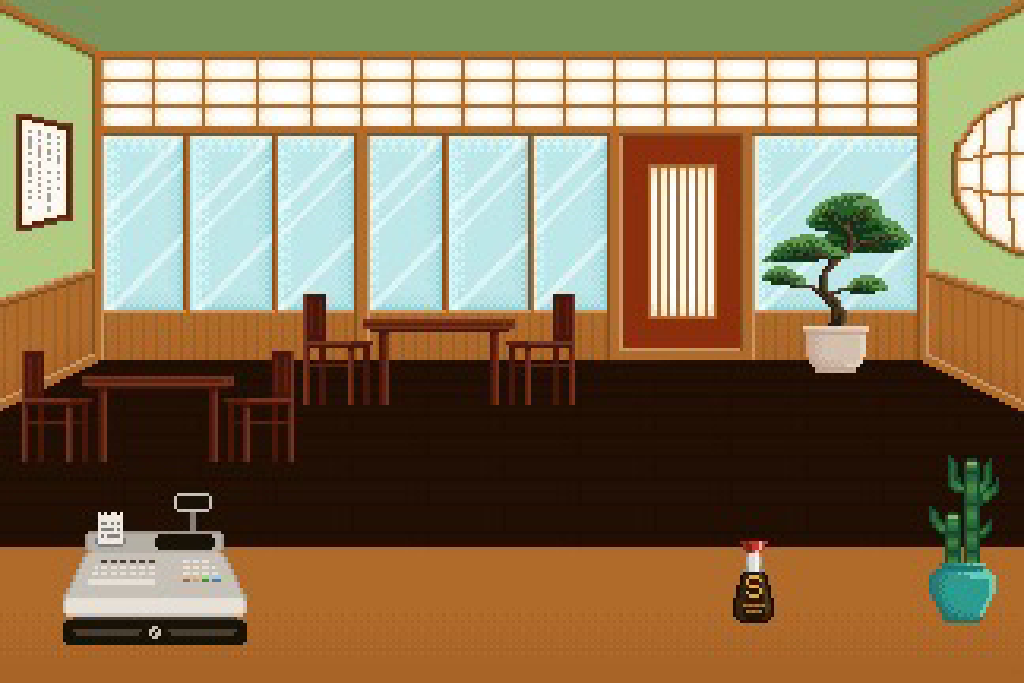
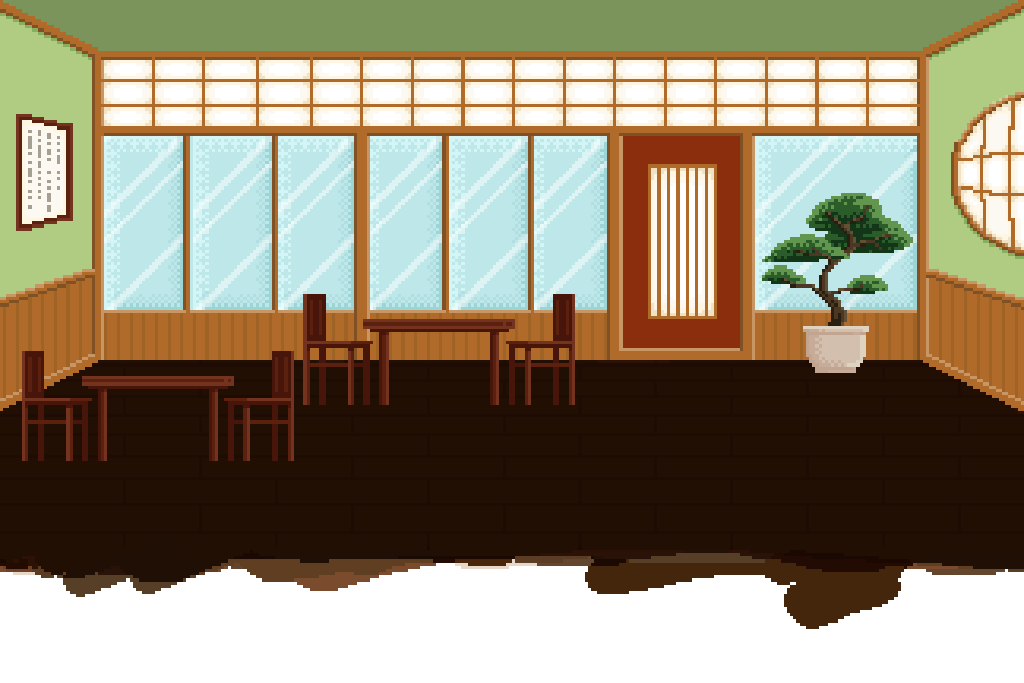
sliding customer working

diff --git a/scenes/counter/customer.js b/scenes/counter/customer.js
@@ -6,12 +6,12 @@ export default class Customer extends GameObject {
     constructor(game, x, y) {
         super(game);
         this.spritesheet = ASSET_MANAGER.getAsset("./assets/characters/dummy.png");
-        this.width = 200;
-        this.height = 200;
+        this.width = 400;
+        this.height = 600;
         this.order = null;
         this.showOrder = false;
         Object.assign(this, { game, x, y });
-        this.walkTo(200, 280, this.displayOrder.bind(this));
+        this.walkTo(200, 100, this.displayOrder.bind(this));
     };
 
     update() {
@@ -21,16 +21,16 @@ export default class Customer extends GameObject {
     draw(ctx) {
         ctx.drawImage(this.spritesheet, this.x, this.y, this.width, this.height);
         if(this.showOrder) {
-            //console.log(this.order);
+            console.log(this.order);
             ctx.fillStyle = "white";
-            ctx.fillRect(this.x, this.y - 200, 200, 200);
+            ctx.fillRect(300, 100, 200, this.order.ingredients.length * 100);
             ctx.fillStyle = "black";
-            ctx.strokeRect(this.x, this.y - 200, 200, 200);
+            ctx.strokeRect(300, 100, 200, 100);
             ctx.font = "20px Arial";
             ctx.fillText("Order", this.x, this.y - 200);
             ctx.font = "16px Arial";
-            for(let i = 0; i < this.order.ingredients.length; i++) {
-                ctx.fillText(this.order.ingredients[i].type, this.x, this.y - 180 + i * 20);
+            for(let i = this.order.ingredients.length - 1; i > -1; i--) {
+                ctx.fillText(this.order.ingredients[i].type, this.x, this.y + i * 20);
             }
             ctx.font = "20px Arial";
             ctx.fillText("Sides", this.x, this.y - 100);
@@ -43,21 +43,15 @@ export default class Customer extends GameObject {
 
     async walkTo(x, y, onComplete=() => {}) {
         let intervalID = setInterval(() => {
-            if(this.x === x && this.y === y) {
+            if(this.y === y) {
                 clearInterval(intervalID);
                 onComplete();
             }
-            if (this.x < x) {
-                this.x += 2;
-            }
             if (this.y < y) {
-                this.y += 2;
-            }
-            if (this.x > x) {
-                this.x -= 2;
+                this.y += 5;
             }
             if (this.y > y) {
-                this.y -= 2;
+                this.y -= 5;
             }
         }, 1000 / 60);
     }

diff --git a/main.js b/main.js
@@ -4,6 +4,7 @@ import OrderManager from "./orderManager.js";
 import SceneManager from "./sceneManager.js";
 import StationSwitcher from "./stationSwitcher.js";
 import RollManager from "./rollManager.js";
+import CustomerManager from "./customerManager.js";
 
 const gameEngine = new GameEngine();
 
@@ -14,11 +15,9 @@ export const ASSET_MANAGER = new AssetManager();
 // backgrounds
 ASSET_MANAGER.queueDownload("./assets/backgrounds/Rice_Background.JPG");
 ASSET_MANAGER.queueDownload("./assets/backgrounds/Roll_Background.JPG");
-ASSET_MANAGER.queueDownload("./assets/backgrounds/Sides_Background.JPG");
 ASSET_MANAGER.queueDownload("./assets/backgrounds/Order_Background.png");
+ASSET_MANAGER.queueDownload("./assets/backgrounds/Order_Foreground.png");
 ASSET_MANAGER.queueDownload("./assets/backgrounds/Station_Background.png");
-ASSET_MANAGER.queueDownload("./assets/backgrounds/Counter_Background.png");
-ASSET_MANAGER.queueDownload("./assets/backgrounds/Station_Backgrounds.png");
 ASSET_MANAGER.queueDownload("./assets/backgrounds/Minigame_Background.png");
 
 // rice station
@@ -110,4 +109,5 @@ window.requestAnimFrame = (() => {
 const sceneManage = new SceneManager(gameEngine);
 const orderManage = new OrderManager(gameEngine);
 const rollManage = new RollManager(gameEngine);
-export { sceneManage, orderManage, rollManage };
+const customerManage = new CustomerManager(gameEngine);
+export { sceneManage, orderManage, rollManage, customerManage };

diff --git a/scenes/counter/scene.js b/scenes/counter/scene.js
@@ -1,5 +1,5 @@
 import Scene from '../../scene.js';
-import GameObject from '../../gameObject.js';
+import GameObject from '../../gameObject.js'; 
 import { ASSET_MANAGER } from "../../main.js";
 import Customer from './customer.js';
 
@@ -11,7 +11,8 @@ export class CounterScene extends Scene {
 
     initalizeScene() {
         this.addGameObject(new Background(this.game, 0, 0));
-        this.addGameObject(new Customer(this.game, 100, 100));
+        this.addGameObject(new Customer(this.game, 100, 550));
+        this.addGameObject(new Foreground(this.game, 0, 0));
     }
 }
 
@@ -21,6 +22,22 @@ class Background extends GameObject {
         Object.assign(this, { game, x, y });
 
         this.spritesheet = ASSET_MANAGER.getAsset("./assets/backgrounds/Order_Background.png");
+    };
+
+    update() {
+    };
+
+    draw(ctx) {
+        ctx.drawImage(this.spritesheet, 0, 0);
+    };
+} 
+
+class Foreground extends GameObject {
+    constructor(game, x, y) {
+        super(game);
+        Object.assign(this, { game, x, y });
+
+        this.spritesheet = ASSET_MANAGER.getAsset("./assets/backgrounds/Order_Foreground.png");
     };
 
     update() {

diff --git a/customerManager.js b/customerManager.js
@@ -1,0 +1,23 @@
+export default class customerManager {
+    constructor(game) {
+        this.game = game;
+        this.customers = [];
+        this.currentCustomer = null;
+        this.isComplete = false;
+    }
+
+    addCustomer(customer) {
+        this.customers.push(customer);
+    }
+
+    getCustomers() {
+        return this.customers;
+    }
+
+    completeCustomer() {
+        this.isComplete = true;
+    }
+
+    update() {};
+    draw(ctx) {};
+}

diff --git a/scenes/assembly/scene.js b/scenes/assembly/scene.js
@@ -79,8 +79,8 @@ export class RiceAssemblyScene extends Scene {
         this.rollButton = Button.rectButton(this.game, 600, 320, 100, 50, () => {
             console.log("Clicked roll button");
             this.roll()
-            rollManage.isComplete();
-        }, "Roll")
+            rollManage.completeRoll();
+        }, "Roll") 
         this.rollButton.hidden = true;
         this.addGameObject(this.rollButton)
     }
